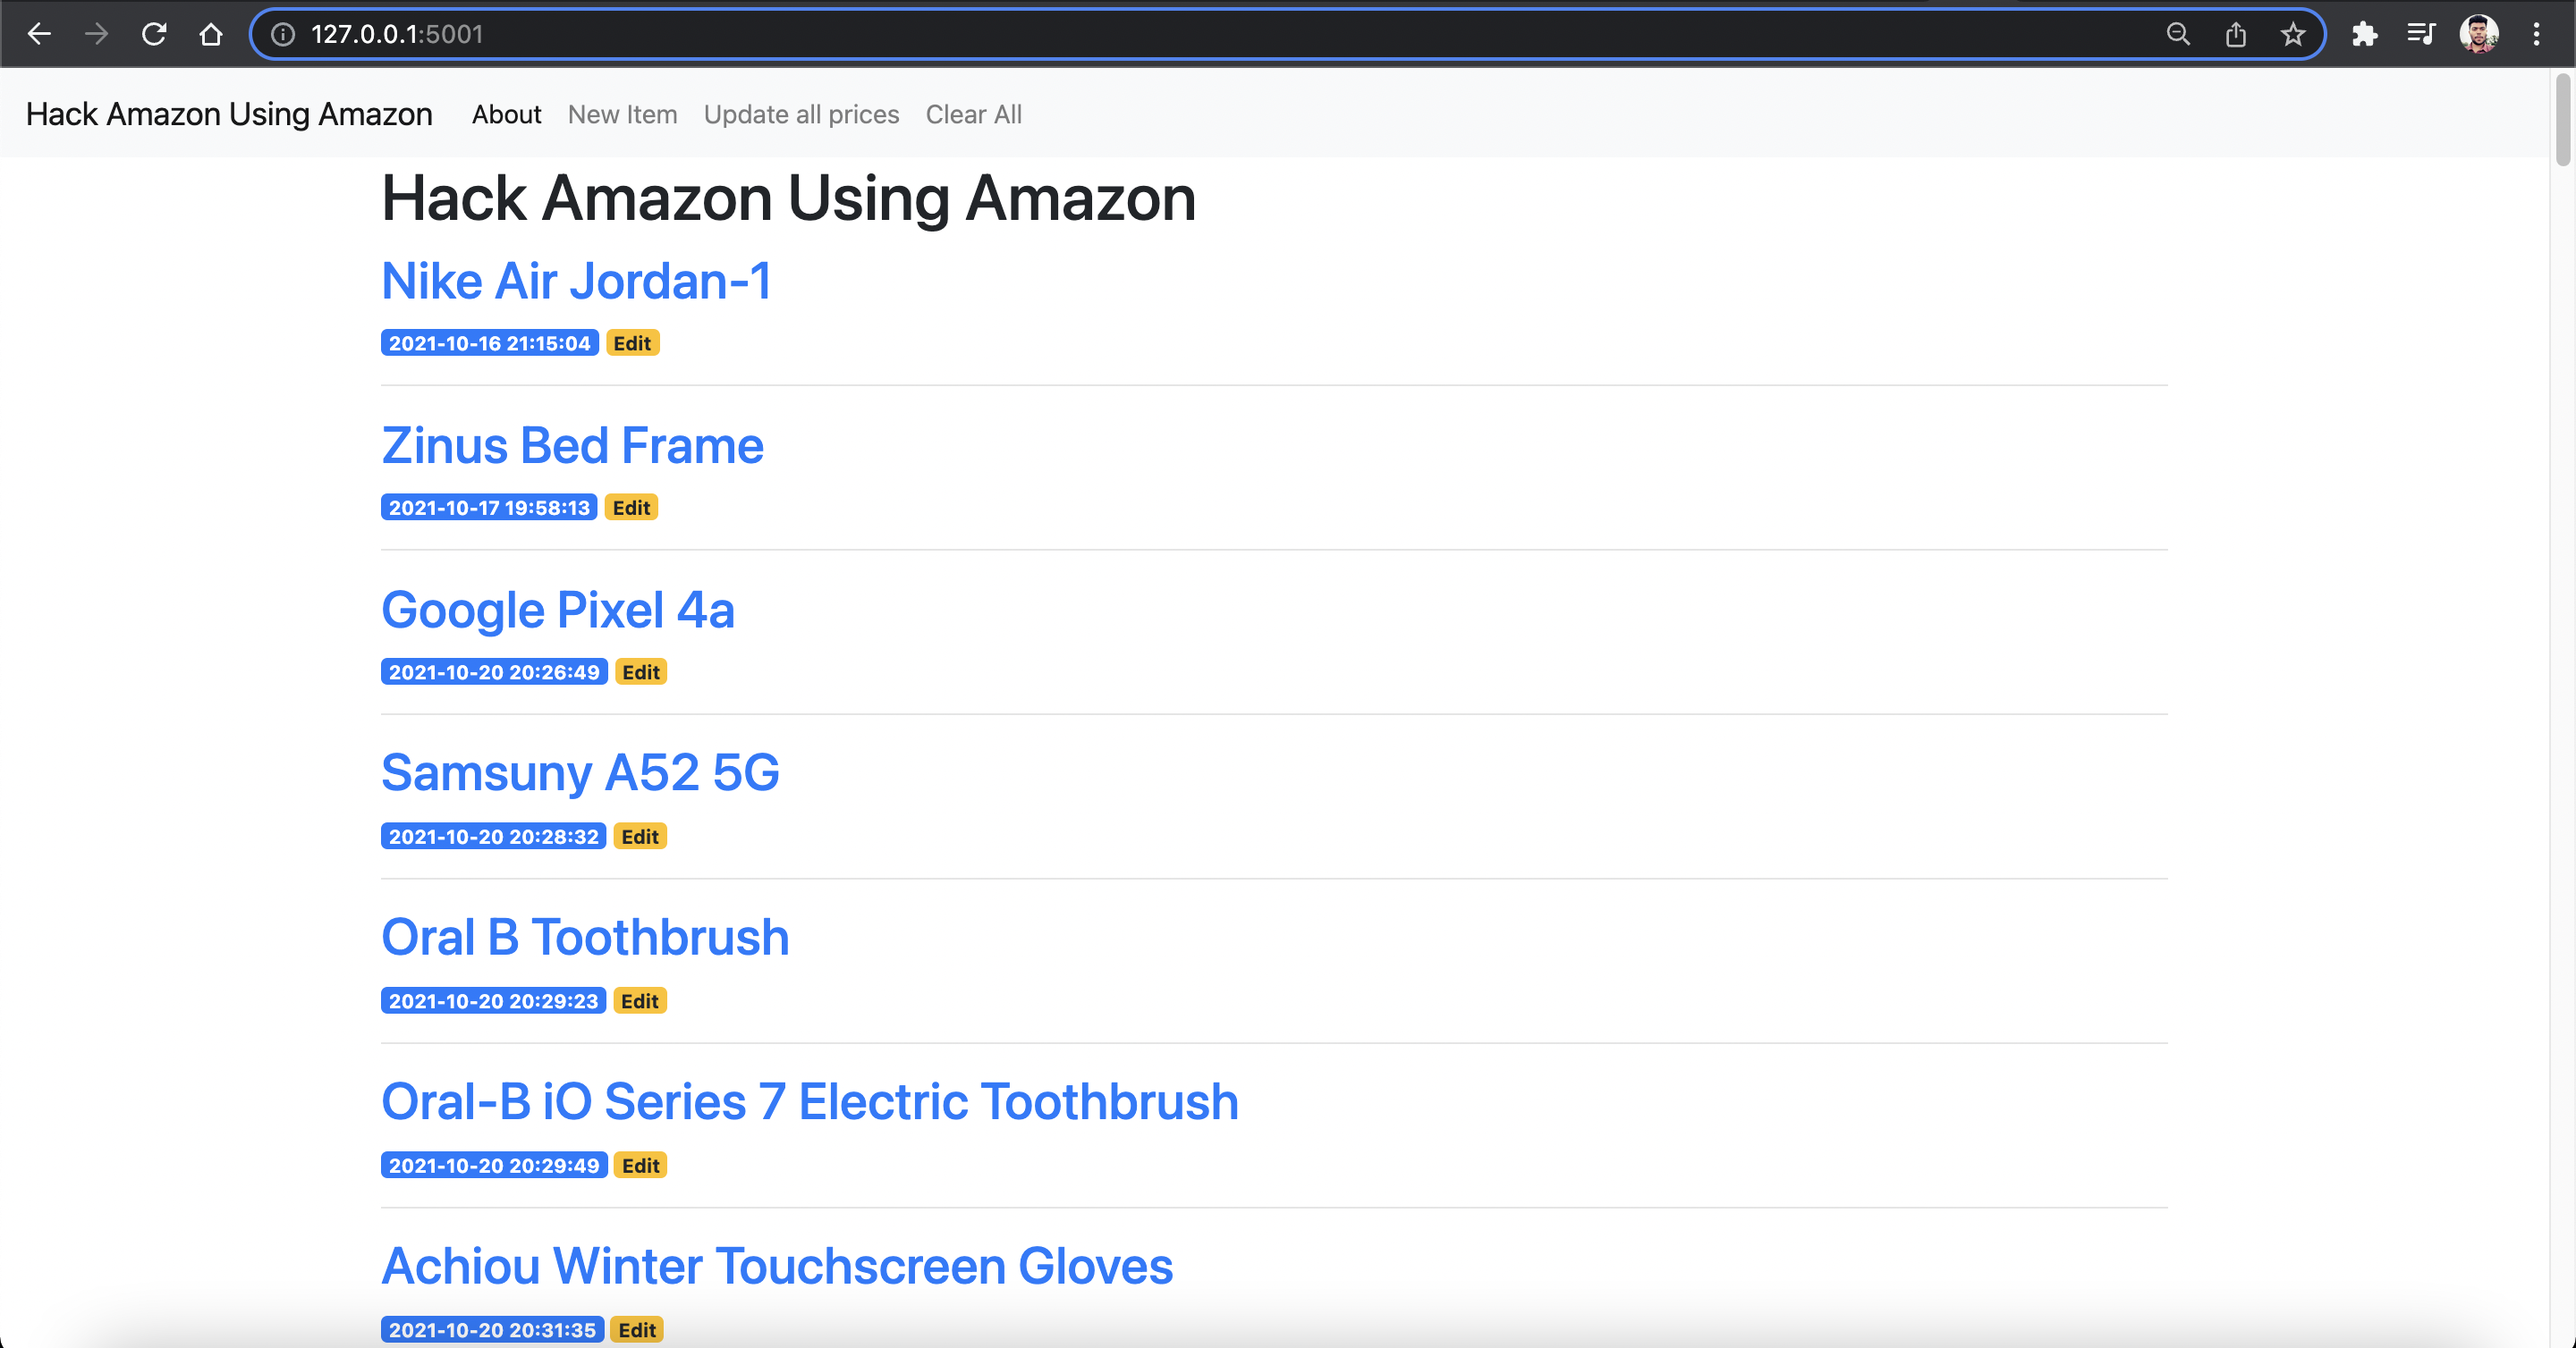
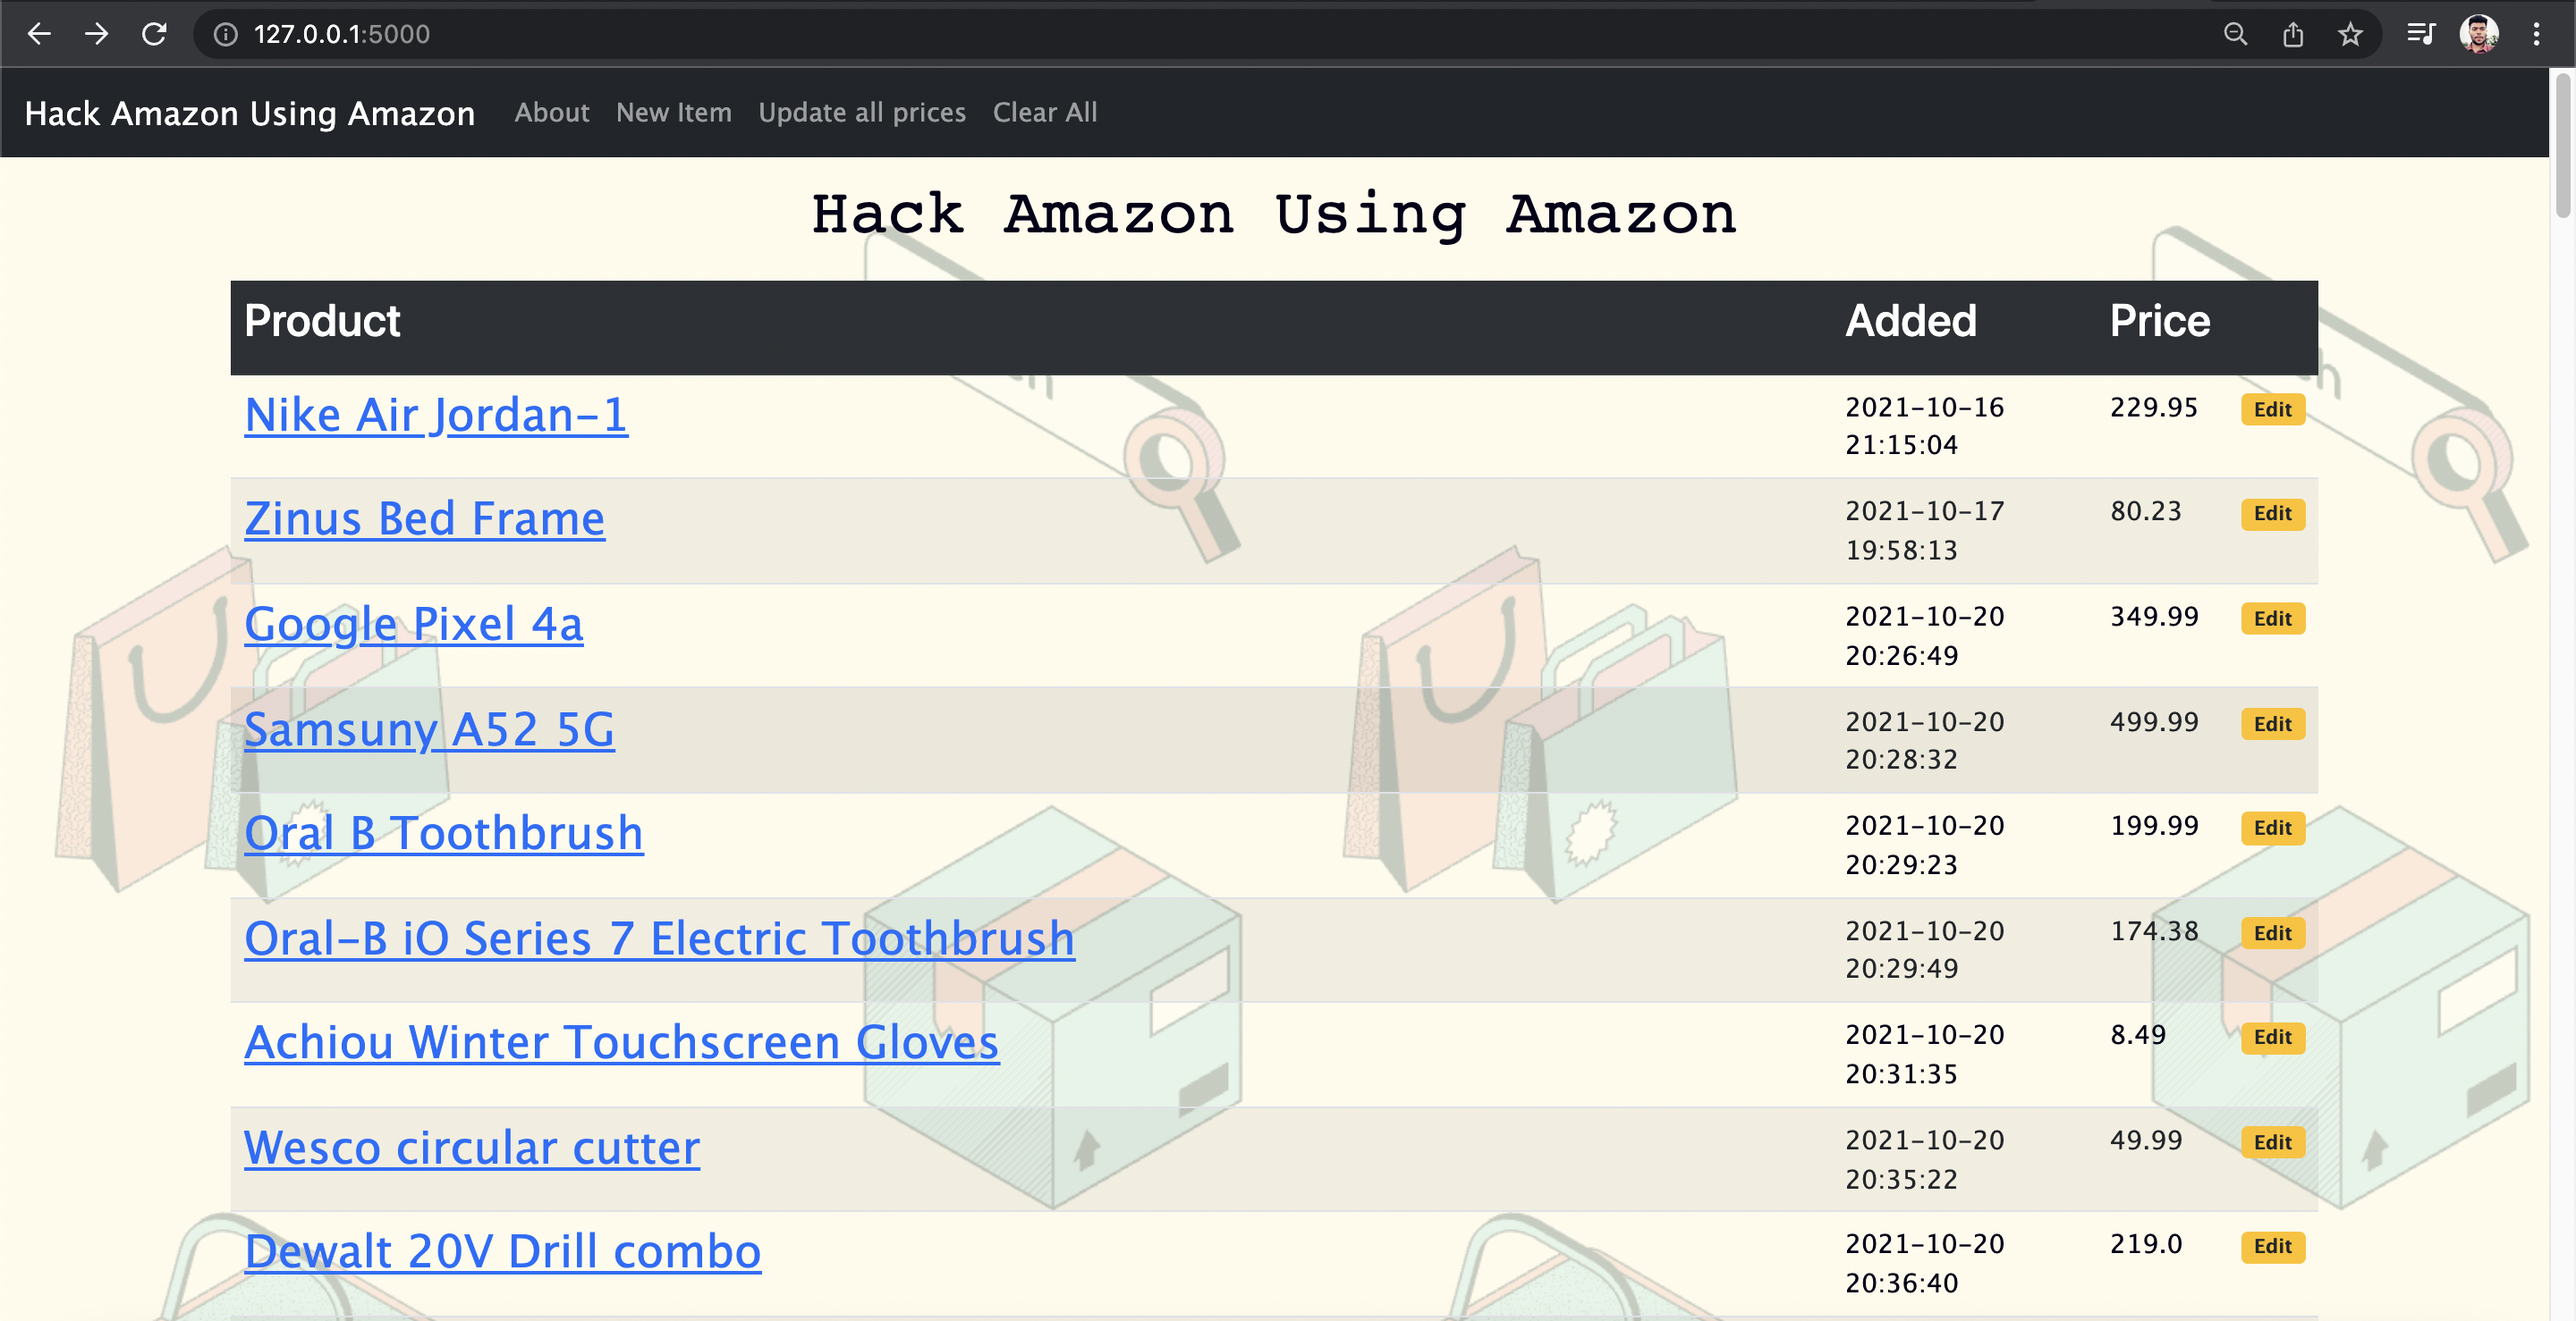
Plotly update

diff --git a/templates/base.html b/templates/base.html
@@ -10,9 +10,10 @@
     <script src="https://cdn.jsdelivr.net/npm/bootstrap@5.1.3/dist/js/bootstrap.bundle.min.js" integrity="sha384-ka7Sk0Gln4gmtz2MlQnikT1wXgYsOg+OMhuP+IlRH9sENBO0LRn5q+8nbTov4+1p" crossorigin="anonymous"></script>
 
     <title>{% block title %} {% endblock %}</title>
+    <link rel="stylesheet" href="{{ url_for('static', filename='css/style.css') }}">
   </head>
   <body>
-    <nav class="navbar navbar-expand-md navbar-light bg-light">
+    <nav class="navbar navbar-expand-md navbar-dark bg-dark">
         <a class="navbar-brand" href="{{ url_for('index')}}">Hack Amazon Using Amazon</a>
         <button class="navbar-toggler" type="button" data-toggle="collapse" data-target="#navbarNav" aria-controls="navbarNav" aria-expanded="false" aria-label="Toggle navigation">
             <span class="navbar-toggler-icon"></span>

diff --git a/static/css/style.css b/static/css/style.css
@@ -1,6 +1,21 @@
 h1 {
-    border: 2px #eee solid;
-    color: brown;
+    color: rgb(4, 0, 24);
     text-align: center;
     padding: 10px;
+    font-family:Courier, monospace;
+}
+body {
+    background-image: url("/static/css/Bg.png");
+}
+nav {
+    color:rgb(255, 255, 255);
+    font-family:'Lucida Sans', 'Lucida Sans Regular', 'Lucida Grande', 'Lucida Sans Unicode', Geneva, Verdana, sans-serif;
+    padding: 15px;
+    text-align: center;
+}
+td {
+    color: rgb(4, 0, 24);
+    font-family:'Lucida Sans', 'Lucida Sans Regular', 'Lucida Grande', 'Lucida Sans Unicode', Geneva, Verdana, sans-serif;
+    padding: 20px;
+    font-style: normal;
 }

diff --git a/templates/post.html b/templates/post.html
@@ -18,6 +18,11 @@
 
     <br>
     <h5>Price Range over time </h5>
-    <img src="/plot/{{ post['id'] }}.png", alt="{{ post['title']}}">
+    <div id='chart' class='chart'”></div>
+    <script src='https://cdn.plot.ly/plotly-latest.min.js'></script>
+    <script type='text/javascript'>
+        var graphs = {{graphJSON | safe}};
+        Plotly.plot('chart', graphs, {});
+    </script>
 
 {% endblock %}

diff --git a/app.py b/app.py
@@ -8,6 +8,10 @@ from apscheduler.schedulers.background import BackgroundScheduler
 from matplotlib.figure import Figure
 import matplotlib.dates as mdates
 from matplotlib.backends.backend_agg import FigureCanvasAgg as FigureCanvas
+import json
+import plotly.express as px
+import plotly 
+
 import io
 
 def get_df(table):
@@ -83,7 +87,7 @@ def index():
 def post(post_id):
     post = get_post(post_id)
     plot_response = get_plot(post_id)
-    return render_template('post.html', post=post)
+    return render_template('post.html', post=post, graphJSON=plot_response)
 
 @app.route('/plot/<int:post_id>.png')
 def get_plot(post_id):
@@ -91,16 +95,21 @@ def get_plot(post_id):
     df_post_id = df[df["id"] == post_id]
     pos_filt = df_post_id["curr_price"] > 0
     prices = df_post_id[pos_filt].loc[:, ["timestp", "curr_price"]]
-
     prices["timestp"] = prices["timestp"].astype('datetime64')
 
-    fig = Figure(figsize=(12, 8))
-    axis = fig.add_subplot(1, 1, 1)
-    axis.plot(prices.timestp, prices.curr_price, "-o")
-    fig.autofmt_xdate(bottom=0.2, rotation=30, ha='right', which='major')
-    output = io.BytesIO()
-    FigureCanvas(fig).print_png(output)
-    return Response(output.getvalue(), mimetype='image/png')
+    fig = px.line(prices, x='timestp', y='curr_price', markers=True, 
+        labels=dict(timestp="Date", curr_price="Price($)"))
+    graphJSON = json.dumps(fig, cls=plotly.utils.PlotlyJSONEncoder)
+
+    return graphJSON
+
+    # fig = Figure(figsize=(12, 8))
+    # axis = fig.add_subplot(1, 1, 1)
+    # axis.plot(prices.timestp, prices.curr_price, "-o")
+    # fig.autofmt_xdate(bottom=0.2, rotation=30, ha='right', which='major')
+    # output = io.BytesIO()
+    # FigureCanvas(fig).print_png(output)
+    # return Response(output.getvalue(), mimetype='image/png')
 
 @app.route('/create', methods=('GET', 'POST'))
 def create():
